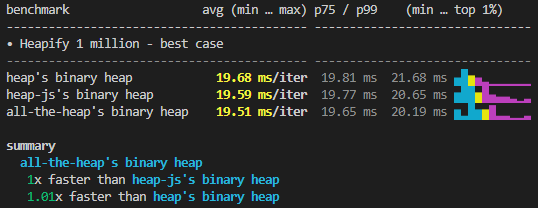
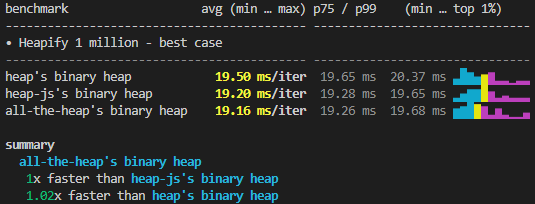
bump version to 0.3.0 and update benchmark results

diff --git a/bench/README.md b/bench/README.md
@@ -25,25 +25,25 @@ bun --expose-gc --allow-natives-syntax bench/<heap-type>/<benchmark>.ts
 
 **System: (ran on WSL)**
 ```
-clk: ~1.75 GHz
+clk: ~3.42 GHz
 cpu: AMD Ryzen 7 5700U with Radeon Graphics
-runtime: bun 1.2.9 (x64-linux)
+runtime: bun 1.2.10 (x64-linux)
 ```
 
 Best case in this sense is heapifying an array of ascending numbers (no swaps required).
 Worst case is heapifying an array of descending numbers (max swaps required).
 
 **Best case**\
-`heap@0.2.7`: 19.68ms / iteration\
-`heap-js@2.6.0`: 19.59ms / iteration\
-`all-the-heaps@0.2.3`: 19.51ms / iteration
+`heap@0.2.7`: 19.50ms / iteration\
+`heap-js@2.6.0`: 19.20ms / iteration\
+`all-the-heaps@0.3.0`: 19.16ms / iteration
 
 ![Mitata results for best case heapify.](./assets/heapify-bestcase-comparison.png)
 
 **Worst case**\
-`heap@0.2.7`: 18.33ms / iteration\
+`heap@0.2.7`: 18.30ms / iteration\
 `heap-js@2.6.0`: 5.85ms / iteration\
-`all-the-heaps@0.2.3`: 4.04ms / iteration
+`all-the-heaps@0.3.0`: 4.37ms / iteration
 
 ![Mitata results for best case heapify.](./assets/heapify-worstcase-comparison.png)
 
@@ -51,25 +51,25 @@ Worst case is heapifying an array of descending numbers (max swaps required).
 
 **System: (ran on WSL)**
 ```
-clk: ~3.44 GHz
+clk: ~1.75 GHz
 cpu: AMD Ryzen 7 5700U with Radeon Graphics
-runtime: bun 1.2.9 (x64-linux)
+runtime: bun 1.2.10 (x64-linux)
 ```
 
 Best case: pushing numbers in ascending order
 Worst case: pushing numbers in descending order
 
 **Best case**\
-`heap@0.2.7`: 954.77µs / iteration\
+`heap@0.2.7`: 970.61µs / iteration\
 `heap-js@2.6.0`: 2.01ms / iteration\
-`all-the-heaps@0.2.3`: 1.06ms / iteration
+`all-the-heaps@0.3.0`: 868.43µs / iteration\
 
 ![Mitata results for best case pushing 1 million items.](./assets/push-bestcase-comparison.png)
 
 **Worst case**\
-`heap@0.2.7`: 2.20ms / iteration\
-`heap-js@2.6.0`: 99.13ms / iteration\
-`all-the-heaps@0.2.3`: 31.64ms / iteration
+`heap@0.2.7`: 2.18ms / iteration\
+`heap-js@2.6.0`: 101.64ms / iteration\
+`all-the-heaps@0.3.0`: 7.53ms / iteration
 
 ![Mitata results for worst case pushing 1 million items.](./assets/push-worstcase-comparison.png)
 
@@ -77,16 +77,16 @@ Worst case: pushing numbers in descending order
 
 **System: (ran on WSL)**
 ```
-clk: ~1.75 GHz
+clk: ~4.07 GHz
 cpu: AMD Ryzen 7 5700U with Radeon Graphics
-runtime: bun 1.2.9 (x64-linux)
+runtime: bun 1.2.10 (x64-linux)
 ```
 
-`heap@0.2.7`: 595.19µs / iteration\
-`heap-js@2.6.0`: 1.47ms / iteration\
-`all-the-heaps@0.2.3`: 299.21µs / iteration
+`heap@0.2.7`: 4.74ms / iteration\
+`heap-js@2.6.0`: 12.06ms / iteration\
+`all-the-heaps@0.3.0`: 2.39ms / iteration
 
-![Mitata results for popping 1 million items.](./assets/pop-comparison.png)
+![Mitata results for popping 10 million items.](./assets/pop-comparison.png)
 
 ### (Binary Heap) Push & pop
 
@@ -94,22 +94,22 @@ runtime: bun 1.2.9 (x64-linux)
 ```
 clk: ~3.40 GHz
 cpu: AMD Ryzen 7 5700U with Radeon Graphics
-runtime: bun 1.2.9 (x64-linux)
+runtime: bun 1.2.10 (x64-linux)
 ```
 
 Best case: pushing numbers in ascending order
 Worst case: pushing numbers in descending order
 
 **Best case**\
-`heap@0.2.7`: 8.29ms / iteration\
-`heap-js@2.6.0`: 95.15ms / iteration\
-`all-the-heaps@0.2.3`: 24.58ms / iteration
+`heap@0.2.7`: 8.10ms / iteration\
+`heap-js@2.6.0`: 103.13ms / iteration\
+`all-the-heaps@0.3.0`: 9.73ms / iteration
 
 ![Mitata results for best case push & pop 100 thousand elements.](./assets/pushpop-bestcase-comparison.png)
 
 **Worst case**\
-`heap@0.2.7`: 8.21ms / iteration\
-`heap-js@2.6.0`: 181.94ms / iteration\
-`all-the-heaps@0.2.3`: 45.61ms / iteration
+`heap@0.2.7`: 8.29ms / iteration\
+`heap-js@2.6.0`: 182.40ms / iteration\
+`all-the-heaps@0.3.0`: 10.42ms / iteration
 
 ![Mitata results for best case push & pop 100 thousand elements.](./assets/pushpop-worstcase-comparison.png)
